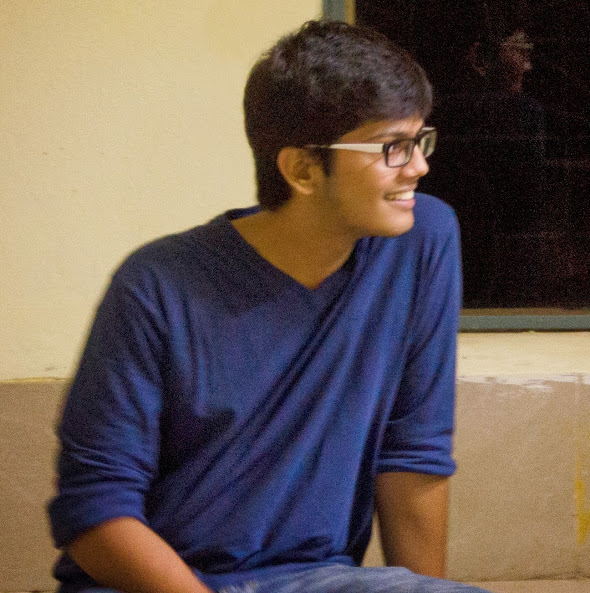
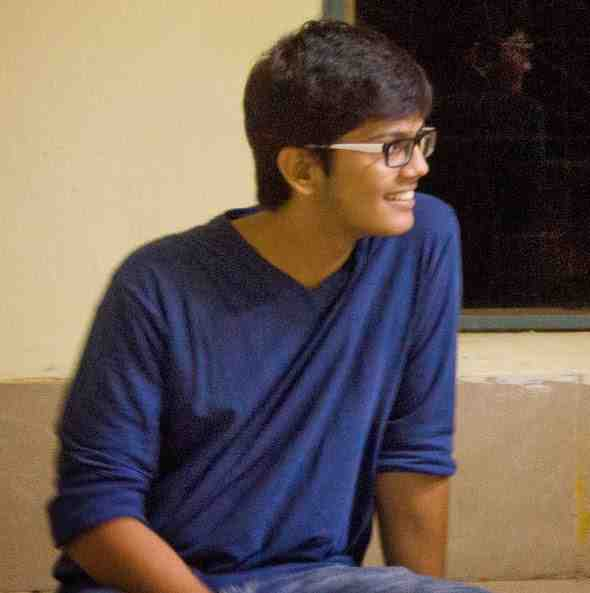
Compressed Images | Removed Sample Images | Small changes to homepage

Changed region(s): [[0.7322, 0.9713, 0.7627, 1.0], [0.6712, 0.3339, 0.7017, 0.3642]]

diff --git a/index.html b/index.html
@@ -37,8 +37,9 @@
 					<div class="navbar-collapse collapse">
 						<ul class="nav navbar-nav" data-0="margin-top:20px;" data-300="margin-top:5px;">
 							<li class="active"><a href="index.html">Home</a></li>
-							<li><a href="#section-about">Project Description</a></li>
-							<li><a href="#section-works">Team</a></li>
+							<li><a href="#section-about">Overview</a></li>
+							<li><a href="#section-team">Team</a></li>
+							<li><a href="#parallax2">Project Description</a></li>
 							<li><a href="#section-contact">Join Us</a></li>
 						</ul>
 					</div><!--/.navbar-collapse -->
@@ -151,7 +152,7 @@
 		</section>
 		
 		<!-- section works -->
-		<section id="section-works" class="section appear clearfix">
+		<section id="section-team" class="section appear clearfix">
 			<div class="container">
 				
 				<div class="row mar-bot40">
@@ -181,7 +182,7 @@
 										<figure class="member-photo"><img src="img/team/Shushman.jpg" alt="" /></figure>
 										<div class="team-detail">
 											<h4>Shushman Choudhary</h4>
-											<span>Project Founder</span>
+											<span>Alumni (Founder)</span>
 										</div>
 									</div>
                                 </article>
